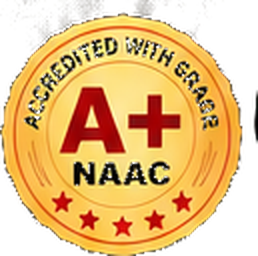
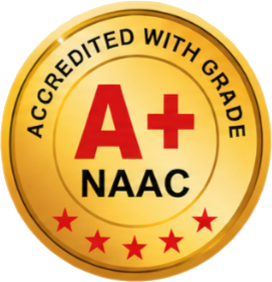
feat(registration): course, department and year of study; required college name
- Senior registrations ask for course, department and year of study
  (dropdown: 1st-4th Year); college name is required and is printed on the
  ID card exactly as typed. Junior registrations need the school name.
- Checked on the server (checkParticipantDetails), including desk cash
  registrations; new User columns via migration 20260930120000
- Excel export and admin CSV include Course, Department, Year of Study
- ID card: sharper NAAC A+ badge taken from the junior poster

diff --git a/client/src/pages/RegisterForm.jsx b/client/src/pages/RegisterForm.jsx
@@ -2,7 +2,7 @@ import React, { useEffect, useRef, useState } from "react";
 import { useNavigate, Link } from "react-router-dom";
 import Button from "../components/ui/Button";
 import Stepper from "../components/ui/Stepper";
-import { Label, Input, FieldError, FieldHint } from "../components/ui/Input";
+import { Label, Input, Select, FieldError, FieldHint } from "../components/ui/Input";
 import { useCart } from "../context/CartContext";
 import { levelOf } from "../lib/site";
 import { plural } from "../lib/a11y";
@@ -14,6 +14,9 @@ export { REGISTRATION_DRAFT_KEY };
 const EMAIL = /^[^\s@]+@[^\s@]+\.[^\s@]{2,}$/;
 const PHONE = /^(?:\+?91[\s-]?)?[6-9]\d{4}[\s-]?\d{5}$/;
 const MIN_PASSWORD = 8;
+// Same options as the server (YEARS_OF_STUDY in server/utils/validation.js).
+const YEARS_OF_STUDY = ["1st Year", "2nd Year", "3rd Year", "4th Year"];
+const EMPTY_FORM = { name: "", email: "", phone: "", password: "", collegeName: "", registerNo: "", course: "", department: "", yearOfStudy: "" };
 
 /**
  * Registration details - step 2 of 3 (events -> details -> payment). The
@@ -32,9 +35,8 @@ export default function RegisterForm() {
 
   const saved = loadDraft();
   const [chosenMode, setMode] = useState(saved?.mode || "individual");
-  const [form, setForm] = useState(
-    saved?.form || { name: "", email: "", phone: "", password: "", collegeName: "", registerNo: "" }
-  );
+  // Merged with the defaults so a draft saved before a field existed still works.
+  const [form, setForm] = useState({ ...EMPTY_FORM, ...(saved?.form || {}) });
   const [teamName, setTeamName] = useState(saved?.teamName || "");
   const [members, setMembers] = useState(saved?.members || [{ name: "", regNo: "", role: "member" }]);
   const [consent, setConsent] = useState(saved?.consent || false);
@@ -81,6 +83,13 @@ export default function RegisterForm() {
     if (next.form.phone && !PHONE.test(next.form.phone.trim())) e.phone = "Enter a 10-digit Indian mobile number, like 98765 43210.";
     if (!next.form.password) e.password = "Create a password.";
     else if (next.form.password.length < MIN_PASSWORD) e.password = `Use at least ${MIN_PASSWORD} characters.`;
+    // The college / school name is printed on the ID card exactly as entered.
+    if (!next.form.collegeName.trim()) e.collegeName = `Enter your ${orgLabel.toLowerCase()}.`;
+    if (!junior) {
+      if (!next.form.course.trim()) e.course = "Enter your course, for example B.E. or B.Tech.";
+      if (!next.form.department.trim()) e.department = "Enter your department.";
+      if (!next.form.yearOfStudy) e.yearOfStudy = "Choose your year of study.";
+    }
     // Junior Techastra: school students register individually and teams are
     // formed at the venue, so there are no team details to check.
     if (junior) next = { ...next, mode: "individual" };
@@ -301,13 +310,51 @@ export default function RegisterForm() {
               )}
             </div>
             <div>
-              <Label htmlFor="reg-college">{orgLabel}</Label>
-              <Input id="reg-college" autoComplete="organization" value={form.collegeName} onChange={(e) => updateForm("collegeName", e.target.value)} />
+              <Label htmlFor="reg-college" required>{orgLabel}</Label>
+              <Input
+                {...field("reg-college", "collegeName")}
+                aria-describedby={errors.collegeName ? "reg-college-error" : "reg-college-hint"}
+                required
+                autoComplete="organization"
+                value={form.collegeName}
+                onChange={(e) => updateForm("collegeName", e.target.value)}
+              />
+              {errors.collegeName ? (
+                <FieldError id="reg-college">{errors.collegeName}</FieldError>
+              ) : (
+                <FieldHint id="reg-college">Printed on your ID card exactly as you type it - use the full name.</FieldHint>
+              )}
             </div>
             <div>
               <Label htmlFor="reg-regno">{idLabel}</Label>
               <Input id="reg-regno" autoComplete="off" value={form.registerNo} onChange={(e) => updateForm("registerNo", e.target.value)} />
             </div>
+            {!junior && (
+              <>
+                <div className="grid sm:grid-cols-2 gap-5">
+                  <div>
+                    <Label htmlFor="reg-course" required>Course</Label>
+                    <Input {...field("reg-course", "course")} required placeholder="B.E. / B.Tech / B.Sc" value={form.course} onChange={(e) => updateForm("course", e.target.value)} />
+                    <FieldError id="reg-course">{errors.course}</FieldError>
+                  </div>
+                  <div>
+                    <Label htmlFor="reg-department" required>Department</Label>
+                    <Input {...field("reg-department", "department")} required placeholder="Computer Science and Engineering" value={form.department} onChange={(e) => updateForm("department", e.target.value)} />
+                    <FieldError id="reg-department">{errors.department}</FieldError>
+                  </div>
+                </div>
+                <div>
+                  <Label htmlFor="reg-year" required>Year of study</Label>
+                  <Select {...field("reg-year", "yearOfStudy")} required value={form.yearOfStudy} onChange={(e) => updateForm("yearOfStudy", e.target.value)}>
+                    <option value="">Select your year</option>
+                    {YEARS_OF_STUDY.map((y) => (
+                      <option key={y} value={y}>{y}</option>
+                    ))}
+                  </Select>
+                  <FieldError id="reg-year">{errors.yearOfStudy}</FieldError>
+                </div>
+              </>
+            )}
           </div>
 
           {mode === "team" && !junior && (

diff --git a/client/src/pages/portals/RegistrationTeamPortal.jsx b/client/src/pages/portals/RegistrationTeamPortal.jsx
@@ -51,6 +51,9 @@ export default function RegistrationTeamPortal() {
     phone: "",
     collegeName: "",
     registerNo: "",
+    course: "",
+    department: "",
+    yearOfStudy: "",
     consent: false, // the participant agrees to the Terms and Privacy Notice
     eventIds: [],
     isTeam: false,
@@ -198,6 +201,9 @@ export default function RegistrationTeamPortal() {
       formData.append("phone", cashRegistration.phone);
       formData.append("collegeName", cashRegistration.collegeName || "");
       formData.append("registerNo", cashRegistration.registerNo || "");
+      formData.append("course", cashRegistration.course || "");
+      formData.append("department", cashRegistration.department || "");
+      formData.append("yearOfStudy", cashRegistration.yearOfStudy || "");
       formData.append("eventIds", JSON.stringify(cashRegistration.eventIds));
       formData.append("amountCollected", String(cashRegistration.amountCollected));
       formData.append("consent", "true");
@@ -223,6 +229,9 @@ export default function RegistrationTeamPortal() {
         phone: "",
         collegeName: "",
         registerNo: "",
+        course: "",
+        department: "",
+        yearOfStudy: "",
         consent: false,
         eventIds: [],
         isTeam: false,
@@ -319,12 +328,12 @@ export default function RegistrationTeamPortal() {
                 </div>
 
                 <div>
-                  <Label htmlFor="cash-college">College/Institution</Label>
+                  <Label htmlFor="cash-college">College/Institution *</Label>
                   <Input
                     id="cash-college"
                     value={cashRegistration.collegeName}
                     onChange={(e) => setCashRegistration({ ...cashRegistration, collegeName: e.target.value })}
-                    placeholder="College name (optional)"
+                    placeholder="College / school name (printed on the ID card)"
                   />
                 </div>
 
@@ -336,6 +345,40 @@ export default function RegistrationTeamPortal() {
                     onChange={(e) => setCashRegistration({ ...cashRegistration, registerNo: e.target.value })}
                     placeholder="Student register number (optional)"
                   />
+                </div>
+
+                <div>
+                  <Label htmlFor="cash-course">Course</Label>
+                  <Input
+                    id="cash-course"
+                    value={cashRegistration.course}
+                    onChange={(e) => setCashRegistration({ ...cashRegistration, course: e.target.value })}
+                    placeholder="B.E. / B.Tech / B.Sc (college students)"
+                  />
+                </div>
+
+                <div>
+                  <Label htmlFor="cash-department">Department</Label>
+                  <Input
+                    id="cash-department"
+                    value={cashRegistration.department}
+                    onChange={(e) => setCashRegistration({ ...cashRegistration, department: e.target.value })}
+                    placeholder="Department (college students)"
+                  />
+                </div>
+
+                <div>
+                  <Label htmlFor="cash-year">Year of Study</Label>
+                  <Select
+                    id="cash-year"
+                    value={cashRegistration.yearOfStudy}
+                    onChange={(e) => setCashRegistration({ ...cashRegistration, yearOfStudy: e.target.value })}
+                  >
+                    <option value="">Select year (college students)</option>
+                    {["1st Year", "2nd Year", "3rd Year", "4th Year"].map((y) => (
+                      <option key={y} value={y}>{y}</option>
+                    ))}
+                  </Select>
                 </div>
 
                 <div>
@@ -486,6 +529,9 @@ export default function RegistrationTeamPortal() {
                     phone: "",
                     collegeName: "",
                     registerNo: "",
+                    course: "",
+                    department: "",
+                    yearOfStudy: "",
                     consent: false,
                     eventIds: [],
                     isTeam: false,

diff --git a/server/utils/validation.js b/server/utils/validation.js
@@ -12,6 +12,8 @@ const UPI_TXN = /^[A-Z0-9]{10,35}$/;
 
 const MIN_PASSWORD = 8;
 const MAX_PASSWORD = 128;
+// College students' year of study (senior registrations).
+const YEARS_OF_STUDY = ["1st Year", "2nd Year", "3rd Year", "4th Year"];
 const MAX_EVENTS = 20;
 const MAX_TEAM = 10;
 
@@ -55,6 +57,9 @@ function validateRegistration(body = {}) {
     password: typeof body.password === "string" ? body.password : "",
     collegeName: str(body.collegeName) || null,
     registerNo: str(body.registerNo) || null,
+    course: str(body.course) || null,
+    department: str(body.department) || null,
+    yearOfStudy: str(body.yearOfStudy) || null,
     teamName: str(body.teamName) || null,
     transactionId: normalizeTxn(body.transactionId),
     eventIds,
@@ -71,6 +76,9 @@ function validateRegistration(body = {}) {
     errors.push(`Password must be ${MIN_PASSWORD}–${MAX_PASSWORD} characters.`);
   if (value.collegeName && value.collegeName.length > 150) errors.push("College / school name is too long.");
   if (value.registerNo && value.registerNo.length > 50) errors.push("Register number / class is too long.");
+  if (value.course && value.course.length > 100) errors.push("Course is too long.");
+  if (value.department && value.department.length > 100) errors.push("Department is too long.");
+  if (value.yearOfStudy && !YEARS_OF_STUDY.includes(value.yearOfStudy)) errors.push("Choose your year of study.");
   if (value.teamName && value.teamName.length > 80) errors.push("Team name is too long.");
   // Required only when there's something to pay (free Junior registrations
   // have no payment) - the route checks that once the total is known.
@@ -107,6 +115,22 @@ function validateRegistration(body = {}) {
   }
 
   return { errors, value };
+}
+
+/**
+ * Participant details required for the registration's level: every
+ * registration needs its college / school name (printed on the ID card);
+ * college students (senior) also give course, department and year of
+ * study. Returns an error message or null.
+ */
+function checkParticipantDetails(value, level) {
+  if (!value.collegeName) return level === "junior" ? "Enter your school name." : "Enter your college name.";
+  if (level !== "junior") {
+    if (!value.course) return "Enter your course (for example B.E. or B.Tech).";
+    if (!value.department) return "Enter your department.";
+    if (!value.yearOfStudy) return "Choose your year of study.";
+  }
+  return null;
 }
 
 /**
@@ -229,6 +253,8 @@ function checkParticipation(events, teamSize) {
 
 module.exports = {
   MIN_PASSWORD,
+  YEARS_OF_STUDY,
+  checkParticipantDetails,
   parseJsonField,
   normalizeEmail,
   normalizeTxn,

diff --git a/server/test/validation.test.js b/server/test/validation.test.js
@@ -201,3 +201,22 @@ test("individual events: every team member takes part (fee and seats per member)
   assert.equal(checkParticipation([solo], 1), null);
   assert.equal(checkParticipation([solo, team], 3), null);
 });
+
+test("college / school name and senior details are required", () => {
+  const { checkParticipantDetails, YEARS_OF_STUDY } = require("../utils/validation");
+  const full = { collegeName: "ABC College", course: "B.E.", department: "CSE", yearOfStudy: "2nd Year" };
+  assert.equal(checkParticipantDetails(full, "senior"), null);
+  assert.match(checkParticipantDetails({ ...full, collegeName: null }, "senior"), /college name/);
+  assert.match(checkParticipantDetails({ ...full, course: null }, "senior"), /course/);
+  assert.match(checkParticipantDetails({ ...full, department: null }, "senior"), /department/);
+  assert.match(checkParticipantDetails({ ...full, yearOfStudy: null }, "senior"), /year of study/);
+  // school students: only the school name
+  assert.equal(checkParticipantDetails({ collegeName: "XYZ School" }, "junior"), null);
+  assert.match(checkParticipantDetails({ collegeName: null }, "junior"), /school name/);
+  assert.deepEqual(YEARS_OF_STUDY, ["1st Year", "2nd Year", "3rd Year", "4th Year"]);
+});
+
+test("year of study must be one of the four options", () => {
+  assert.equal(validateRegistration({ ...valid, yearOfStudy: "3rd Year" }).errors.length, 0);
+  assert.ok(validateRegistration({ ...valid, yearOfStudy: "5th Year" }).errors.some((e) => /year of study/.test(e)));
+});

diff --git a/server/routes/registration-team.js b/server/routes/registration-team.js
@@ -81,6 +81,9 @@ router.get("/export/:eventId", exportLimiter, async (req, res) => {
         Phone: reg.user.phone || "",
         College: reg.collegeName || "",
         "Register No": reg.user.registerNo || "",
+        Course: reg.user.course || "",
+        Department: reg.user.department || "",
+        "Year of Study": reg.user.yearOfStudy || "",
         "Team Name": reg.teamName || "",
         "Team Members": teamMembersStr,
         Events: eventsStr,
@@ -110,6 +113,10 @@ router.get("/export/:eventId", exportLimiter, async (req, res) => {
           Name: p.name || "",
           "Register No": p.regNo || (p.lead ? reg.user.registerNo || "" : ""),
           College: reg.collegeName || "",
+          // Course / department / year are asked of the registrant only.
+          Course: p.lead ? reg.user.course || "" : "",
+          Department: p.lead ? reg.user.department || "" : "",
+          "Year of Study": p.lead ? reg.user.yearOfStudy || "" : "",
           "Registered With": members ? `${reg.teamName || "Team"} (lead: ${reg.user.name})` : "Self",
           Email: p.lead ? reg.user.email || "" : "",
           Phone: p.lead ? reg.user.phone || "" : "",
@@ -128,6 +135,9 @@ router.get("/export/:eventId", exportLimiter, async (req, res) => {
       Phone: 15,
       College: 40,
       "Register No": 15,
+      Course: 16,
+      Department: 28,
+      "Year of Study": 13,
       "Team Name": 25,
       "Team Members": 50,
       Events: 40,

diff --git a/server/routes/registrations.js b/server/routes/registrations.js
@@ -14,6 +14,7 @@ const {
   checkComboRules,
   checkParticipation,
   checkRegistrationOpen,
+  checkParticipantDetails,
   computeTotal,
   normalizeEmail,
   normalizeTxn,
@@ -98,7 +99,13 @@ async function createRegistration(req, res) {
       if (levels.has("junior")) {
         value.teamMembers = null;
         value.teamName = null;
+        // Course / department / year of study are for college students only.
+        value.course = value.department = value.yearOfStudy = null;
       }
+      // College / school name (printed on the ID card) and, for college
+      // students, course, department and year of study.
+      const detailsError = checkParticipantDetails(value, levels.has("junior") ? "junior" : "senior");
+      if (detailsError) return reject(400, detailsError);
 
       // Online registration for an event closes once it has started (the
       // desk can still add a walk-up on the day).
@@ -191,6 +198,9 @@ async function createRegistration(req, res) {
             role: "participant",
             collegeName: value.collegeName,
             registerNo: value.registerNo,
+            course: value.course,
+            department: value.department,
+            yearOfStudy: value.yearOfStudy,
           },
         });
 

diff --git a/server/routes/admin.js b/server/routes/admin.js
@@ -248,6 +248,10 @@ router.get("/export/registrations.csv", exportLimiter, async (req, res) => {
       { label: "Name", value: (r) => r.user.name },
       { label: "Email", value: (r) => r.user.email },
       { label: "College", value: "collegeName" },
+      { label: "Register No", value: (r) => r.user.registerNo || "" },
+      { label: "Course", value: (r) => r.user.course || "" },
+      { label: "Department", value: (r) => r.user.department || "" },
+      { label: "Year of Study", value: (r) => r.user.yearOfStudy || "" },
       { label: "Team Name", value: "teamName" },
       { label: "Events", value: (r) => (r.eventIds || []).map((id) => eventMap.get(id) || id).join(" | ") },
       { label: "Total Amount", value: "totalAmount" },

diff --git a/client/src/pages/Checkout.jsx b/client/src/pages/Checkout.jsx
@@ -203,6 +203,9 @@ export default function Checkout() {
     fd.append("password", needsPassword ? password : form.password);
     fd.append("collegeName", form.collegeName || "");
     fd.append("registerNo", form.registerNo || "");
+    fd.append("course", form.course || "");
+    fd.append("department", form.department || "");
+    fd.append("yearOfStudy", form.yearOfStudy || "");
     fd.append("teamName", mode === "team" ? teamName : "");
     if (teamMembers) fd.append("teamMembers", JSON.stringify(teamMembers));
     fd.append("eventIds", JSON.stringify(items.map((i) => i.id)));
